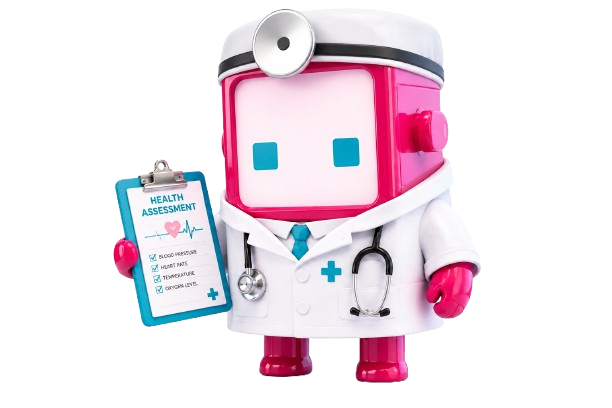
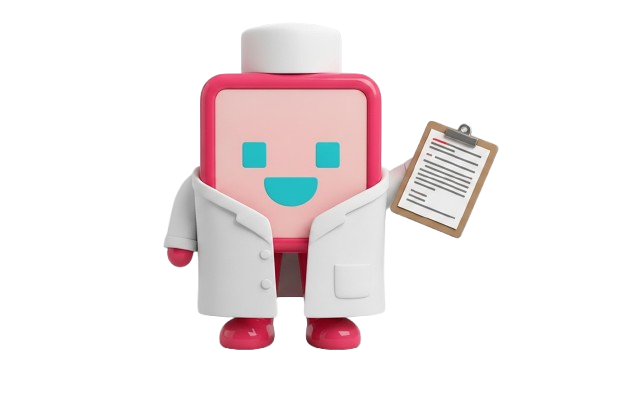
body chnged

diff --git a/frontend/src/design-system/illustrations/anatomy/body-base-path.ts b/frontend/src/design-system/illustrations/anatomy/body-base-path.ts
@@ -38,6 +38,7 @@ type Node = readonly [dx: number, y: number];
 /**
  * نیمهٔ راستِ سیلوئت: از تارک (روی محور) تا فاق (روی محور)، ساعتگرد.
  * `dx` فاصله از محورِ تقارن است.
+ * بازوها در حالت آناتومی (کنارِ تنه) رسم شدهاند، نه حالت A/T.
  */
 const HALF_OUTLINE: readonly Node[] = [
   // نوکِ تارک کمی بالاتر از همسایهاش نشسته تا آینهشدن، بالای سر را گود نکند.
@@ -46,37 +47,41 @@ const HALF_OUTLINE: readonly Node[] = [
   [26.52, 41.88], [25.58, 47.13], [27.48, 52.63], [27.39, 55.88],
   [25.91, 61.63], [24.58, 64.63], [23.33, 66.14], [21.04, 67.16],
   [20.19, 68.14], [18, 78.38], [18.31, 87.63], [19.08, 91.88],
-  [20.21, 94.63], [22.68, 97.39], [27.43, 100.45], [42.18, 108.07],
-  [60.18, 116.38], [67.43, 121.74], [69.69, 124.38], [71.27, 127.38],
-  [73.21, 133.63], [75.04, 143.63], [75.93, 179.88], [79.02, 207.13],
-  [80.68, 214.13], [85.93, 227.88], [88.68, 237.13], [96.1, 282.88],
-  [104.69, 309.13], [106.54, 311.61], [115.62, 320.13], [124.06, 331.13],
-  [127.29, 334.05], [127.81, 335.34], [126.43, 336.55], [122.93, 336.16],
-  [119.43, 334.24], [115.69, 330.99], [114.62, 330.86], [114.54, 334.13],
-  [116.68, 348.13], [116.52, 358.38], [115.71, 359.93], [114.43, 360.57],
-  [113, 360.13], [112.08, 358.88], [110.69, 346.88], [109.25, 341.64],
-  [108.71, 341.11], [109.41, 349.63], [108.68, 362.38], [108.33, 364.09],
-  [107.14, 365.28], [104.98, 365.2], [103.77, 363.38], [103.68, 351.63],
-  [102.52, 342.45], [101, 361.63], [100.23, 363.41], [98.19, 363.86],
-  [96.75, 362.13], [96.68, 341.38], [96.23, 339.86], [95.66, 340.63],
-  [93.85, 354.86], [92.39, 356.18], [91.25, 355.84], [90.43, 354.88],
-  [89.93, 352.38], [90.43, 337.88], [88.06, 325.38], [87.44, 312.63],
-  [69.62, 269.38], [56.5, 234.63], [55.77, 231.63], [55.18, 220.63],
-  [51.21, 204.38], [49.27, 191.13], [48.81, 190.43], [48.25, 191.38],
-  [45.08, 210.63], [44.54, 218.63], [44.85, 225.38], [48.27, 245.38],
-  [49.62, 265.38], [51.5, 270.63], [55.12, 288.13], [58.08, 313.38],
-  [57.21, 326.88], [52, 380.88], [50.68, 391.13], [48.79, 399.38],
-  [47.93, 409.63], [48.54, 425.38], [53.35, 446.63], [54.68, 458.88],
-  [51.43, 525.88], [51.83, 528.88], [53.44, 533.88], [54.58, 543.63],
-  [61.31, 556.13], [70.31, 569.88], [71.19, 572.38], [71.54, 575.63],
-  [70.98, 580.13], [68.75, 583.63], [68.06, 586.55], [66.21, 588.32],
-  [65.35, 590.18], [61.18, 593.32], [57.58, 593.39], [55.18, 594.89],
-  [52.68, 595.38], [49.93, 594.59], [47.29, 591.88], [43.93, 582.63],
-  [42.19, 567.63], [39.69, 558.63], [38.52, 551.13], [34.68, 538.13],
-  [34.66, 535.88], [35.81, 530.38], [35.93, 523.88], [34.08, 509.88],
-  [30.66, 491.63], [25.83, 474.88], [24.81, 469.38], [23.02, 435.13],
-  [17.69, 421.88], [15.43, 414.13], [13.06, 384.63], [4.69, 343.13],
-  [4.27, 342.34], [3.39, 342.03], [0, 343.26],
+  [20.21, 94.63], [22.68, 97.39], [27.43, 100.45],
+  // شانه — شروع بازو (حالت آناتومی: بازو بهلبهی تنه میچسبد)
+  [28.5, 108.07], [29.5, 116.38], [30.2, 124.38], [30.8, 133.63],
+  [31.2, 143.63], [31.5, 155.88], [31.6, 168.13], [31.5, 179.88],
+  [31.2, 191.63], [30.8, 203.13], [30.2, 214.13], [29.5, 227.88],
+  [28.5, 237.13], [27.8, 249.88], [27.5, 262.13], [27.8, 274.88],
+  [28.5, 282.88],
+  // کمر و لگن — بازو بهلبهی تنه میرسد
+  [32.5, 309.13], [36.5, 311.61], [42.5, 320.13], [49.5, 331.13],
+  [52.5, 334.05], [53.5, 335.34], [52.5, 336.55], [49.5, 336.16],
+  [46.5, 334.24], [43.5, 330.99], [42.5, 330.86], [42.5, 334.13],
+  [44.5, 348.13], [44.5, 358.38], [43.5, 359.93], [42.5, 360.57],
+  [41.5, 360.13], [40.5, 358.88], [39.5, 346.88], [38.5, 341.64],
+  [38.5, 341.11], [39.5, 349.63], [39.5, 362.38], [39.5, 364.09],
+  [38.5, 365.28], [37.5, 365.2], [36.5, 363.38], [36.5, 351.63],
+  [35.5, 342.45], [34.5, 361.63], [33.5, 363.41], [32.5, 363.86],
+  [31.5, 362.13], [31.5, 341.38], [31.5, 339.86], [31.5, 340.63],
+  [30.5, 354.86], [29.5, 356.18], [28.5, 355.84], [28.5, 354.88],
+  [28.5, 352.38], [28.5, 337.88], [26.5, 325.38], [26.5, 312.63],
+  [22.5, 269.38], [18.5, 234.63], [17.5, 231.63], [17.5, 220.63],
+  [15.5, 204.38], [14.5, 191.13], [14.5, 190.43], [14.5, 191.38],
+  [12.5, 210.63], [12.5, 218.63], [12.5, 225.38], [15.5, 245.38],
+  [16.5, 265.38], [18.5, 270.63], [20.5, 288.13], [22.5, 313.38],
+  [21.5, 326.88], [18.5, 380.88], [17.5, 391.13], [16.5, 399.38],
+  [15.5, 409.63], [15.5, 425.38], [18.5, 446.63], [19.5, 458.88],
+  [18.5, 525.88], [18.5, 528.88], [19.5, 533.88], [20.5, 543.63],
+  [24.5, 556.13], [30.5, 569.88], [31.5, 572.38], [31.5, 575.63],
+  [31.5, 580.13], [29.5, 583.63], [28.5, 586.55], [27.5, 588.32],
+  [26.5, 590.18], [23.5, 593.32], [21.5, 593.39], [19.5, 594.89],
+  [17.5, 595.38], [15.5, 594.59], [13.5, 591.88], [11.5, 582.63],
+  [10.5, 567.63], [8.5, 558.63], [7.5, 551.13], [5.5, 538.13],
+  [5.5, 535.88], [6.5, 530.38], [6.5, 523.88], [5.5, 509.88],
+  [3.5, 491.63], [1.5, 474.88], [1.5, 469.38], [0.5, 435.13],
+  [0, 421.88], [0, 414.13], [0, 384.63], [0, 343.13],
+  [0, 342.34], [0, 342.03], [0, 343.26],
 ];
 
 /**
@@ -85,21 +90,22 @@ const HALF_OUTLINE: readonly Node[] = [
  * از همان رسترِ متقارن به دست آمده: در هر سطر، بازهای که محورِ تقارن را در بر
  * میگیرد. موتورِ ریختدهی با این جدول میفهمد کجا تنه تمام و بازو شروع میشود،
  * تا چاقشدنِ تنه بازوها را کش ندهد و فقط کنارشان بزند.
+ * ۱۵۱ مقدار برای y=0..600 با گام ۴.
  */
 const CORE_HALF_MALE: readonly number[] = [
   0, 0, 11.1, 17.9, 21.5, 24.5, 26.4, 27.1, 27.3, 27.1, 26.8, 26.3,
   25.6, 27.5, 27.5, 26.5, 25, 20.2, 19.4, 18.6, 18, 18.2, 18.5, 19.3,
-  21.4, 27.1, 34.6, 42.6, 51.5, 60, 65.7, 69.7, 71.7, 73, 73.9, 74.6,
-  75.2, 75.5, 75.6, 75.6, 75.6, 75.6, 75.7, 75.8, 75.9, 76.1, 76.4, 76.8,
-  48.2, 47.6, 46.9, 46.2, 45.6, 45.1, 44.8, 44.7, 44.9, 45.3, 46.1, 46.9,
-  47.6, 48.2, 48.7, 48.9, 49.1, 49.3, 49.6, 50.7, 51.9, 52.7, 53.6, 54.4,
-  55.2, 55.8, 56.2, 56.7, 57.2, 57.7, 58.1, 58.1, 57.9, 57.6, 57.2, 56.8,
-  56.5, 56, 0, 0, 0, 0, 0, 0, 0, 0, 0, 0,
-  0, 0, 0, 0, 0, 0, 0, 0, 0, 0, 0, 0,
-  0, 0, 0, 0, 0, 0, 0, 0, 0, 0, 0, 0,
-  0, 0, 0, 0, 0, 0, 0, 0, 0, 0, 0, 0,
-  0, 0, 0, 0, 0, 0, 0, 0, 0, 0, 0, 0,
-  0, 0, 0, 0, 0, 0, 0,
+  21.4, 27.1, 28.5, 29.2, 29.8, 30.3, 30.7, 31.0, 31.2, 31.3, 31.4, 31.4,
+  31.4, 31.4, 31.4, 31.4, 31.3, 31.2, 31.0, 30.7, 30.3, 29.8, 29.2, 28.5,
+  28.0, 27.8, 27.6, 27.5, 27.6, 28.0, 28.5, 32.5, 35.5, 41.0, 47.5,
+  51.0, 52.5, 51.5, 48.5, 45.5, 42.5, 42.5, 43.5, 43.5, 42.5, 41.5, 40.5,
+  31.5, 31.5, 31.5, 31.5, 30.5, 30.0, 29.5, 28.5, 28.5, 28.5, 26.5, 24.5,
+  22.5, 20.5, 18.5, 16.5, 15.5, 14.5, 14.5, 14.5, 12.5, 12.5, 12.5, 14.5,
+  15.5, 17.5, 18.5, 20.5, 22.5, 21.5, 18.5, 17.5, 16.5, 15.5, 15.5, 15.5,
+  18.5, 19.5, 18.5, 18.5, 18.5, 19.5, 20.5, 22.5, 23.5, 25.5, 26.5, 27.5,
+  28.5, 29.5, 29.5, 30.5, 30.5, 30.5, 28.5, 27.5, 26.5, 24.5, 22.5, 20.5,
+  18.5, 16.5, 14.5, 12.5, 10.5, 8.5, 6.5, 5.5, 5.5, 6.5, 6.5, 5.5,
+  3.5, 1.5, 1.5, 0.5, 0, 0, 0, 0,
 ];
 
 /**

diff --git a/frontend/src/modules/survey/presentation/pages/WelcomePage.tsx b/frontend/src/modules/survey/presentation/pages/WelcomePage.tsx
@@ -36,7 +36,7 @@ export default function WelcomePage() {
           src={drdd}
           alt=""
           aria-hidden="true"
-          className="hidden sm:block pointer-events-none select-none absolute left-4 top-4 w-24 h-24 md:w-48 md:h-48 lg:w-56 lg:h-56 object-contain"
+          className="hidden sm:block pointer-events-none select-none absolute left-4 top-4 w-[300px] h-[300px] md:w-48 md:h-48 lg:w-56 lg:h-56 object-contain"
         />
 
         {/* Hero Section */}
